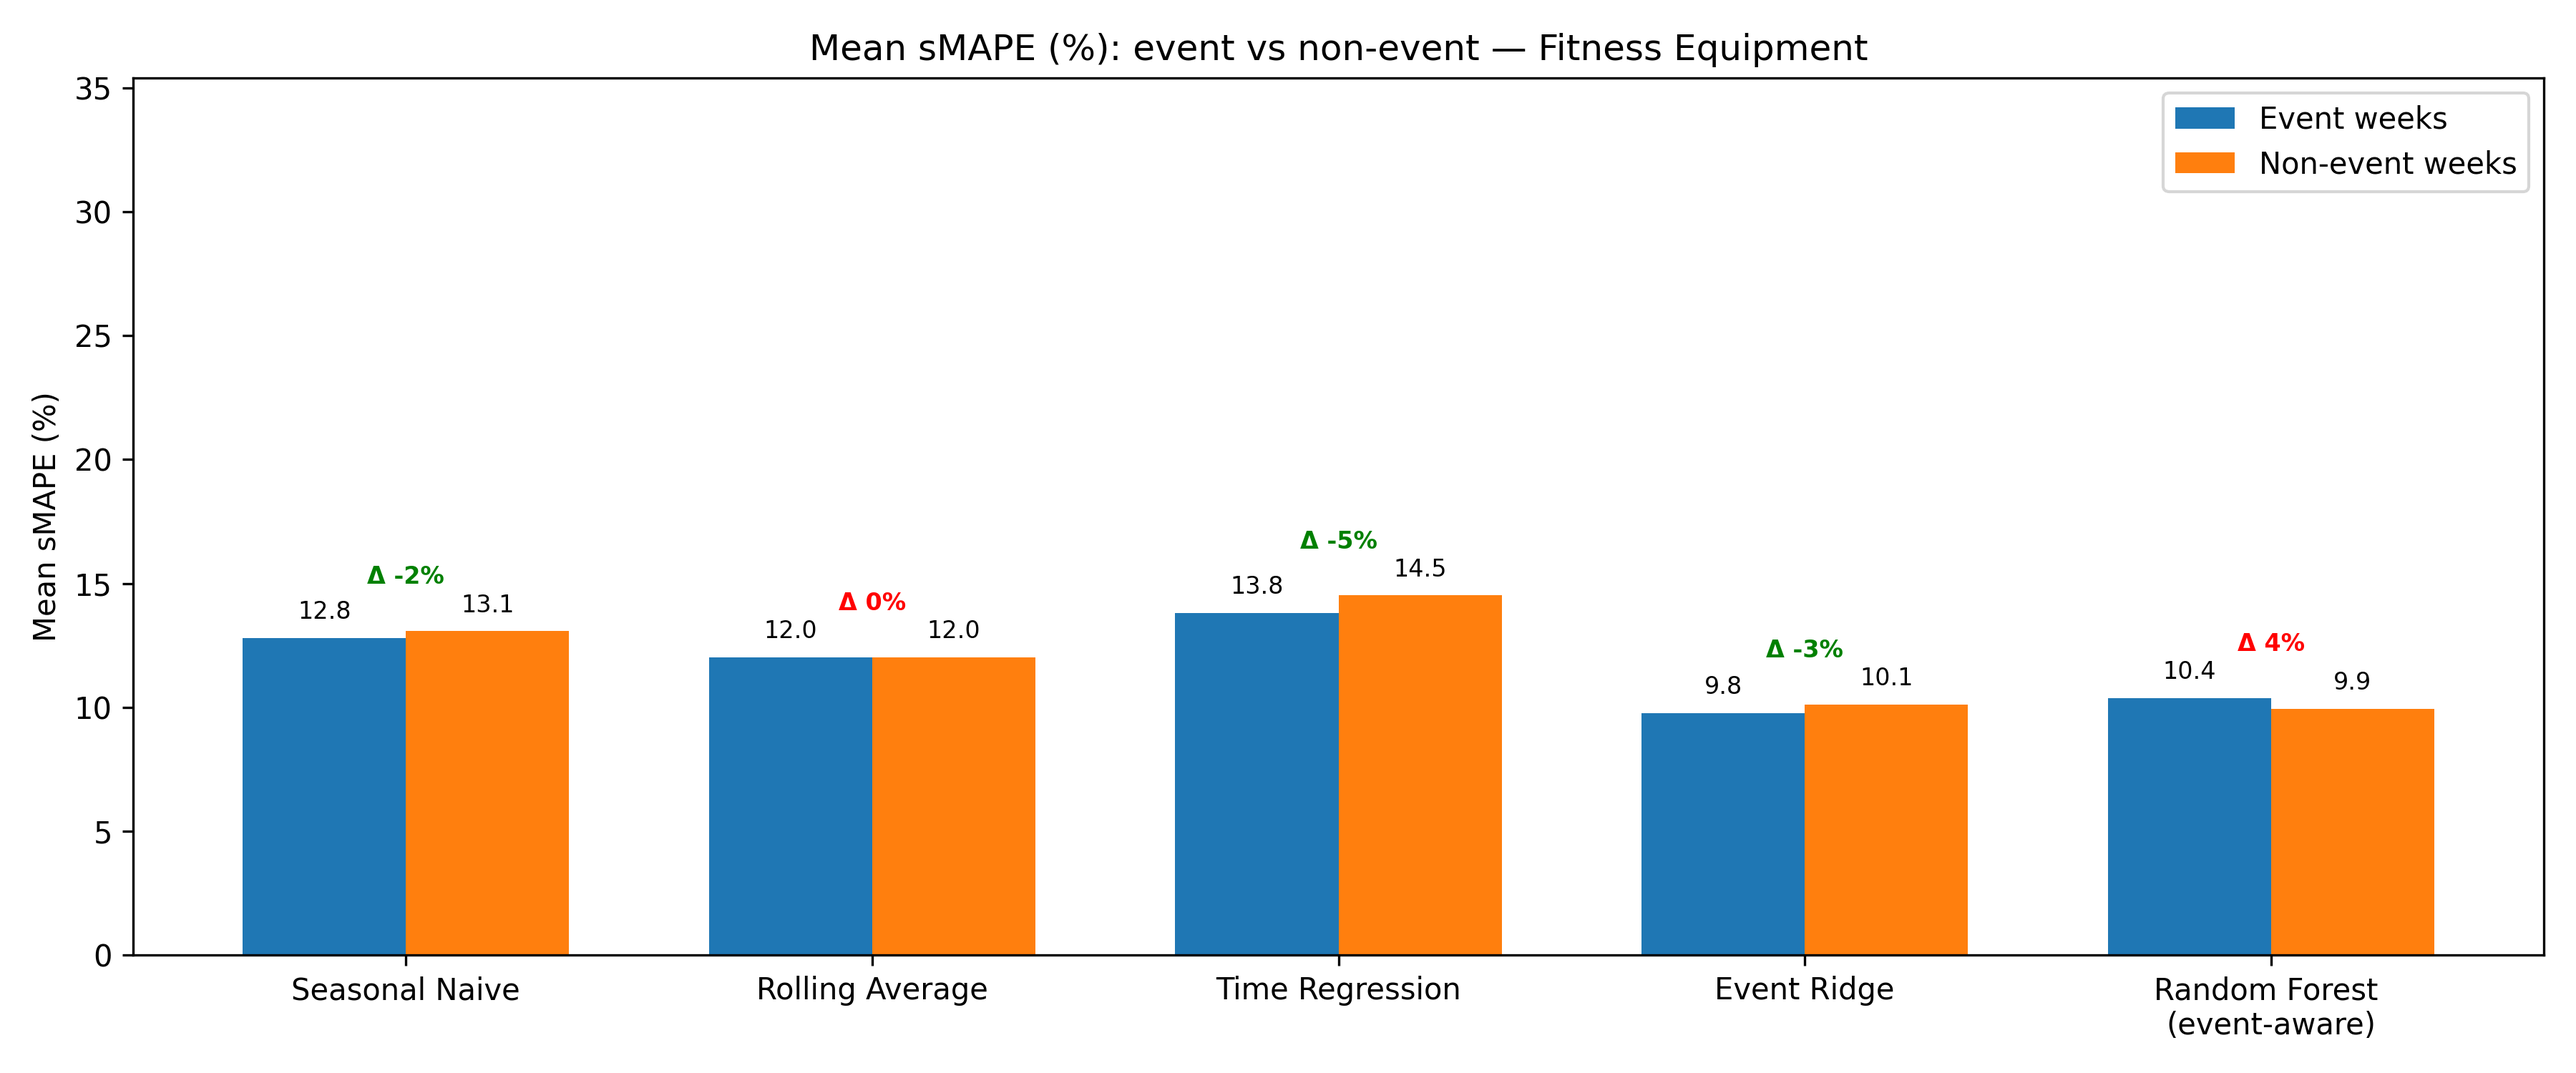
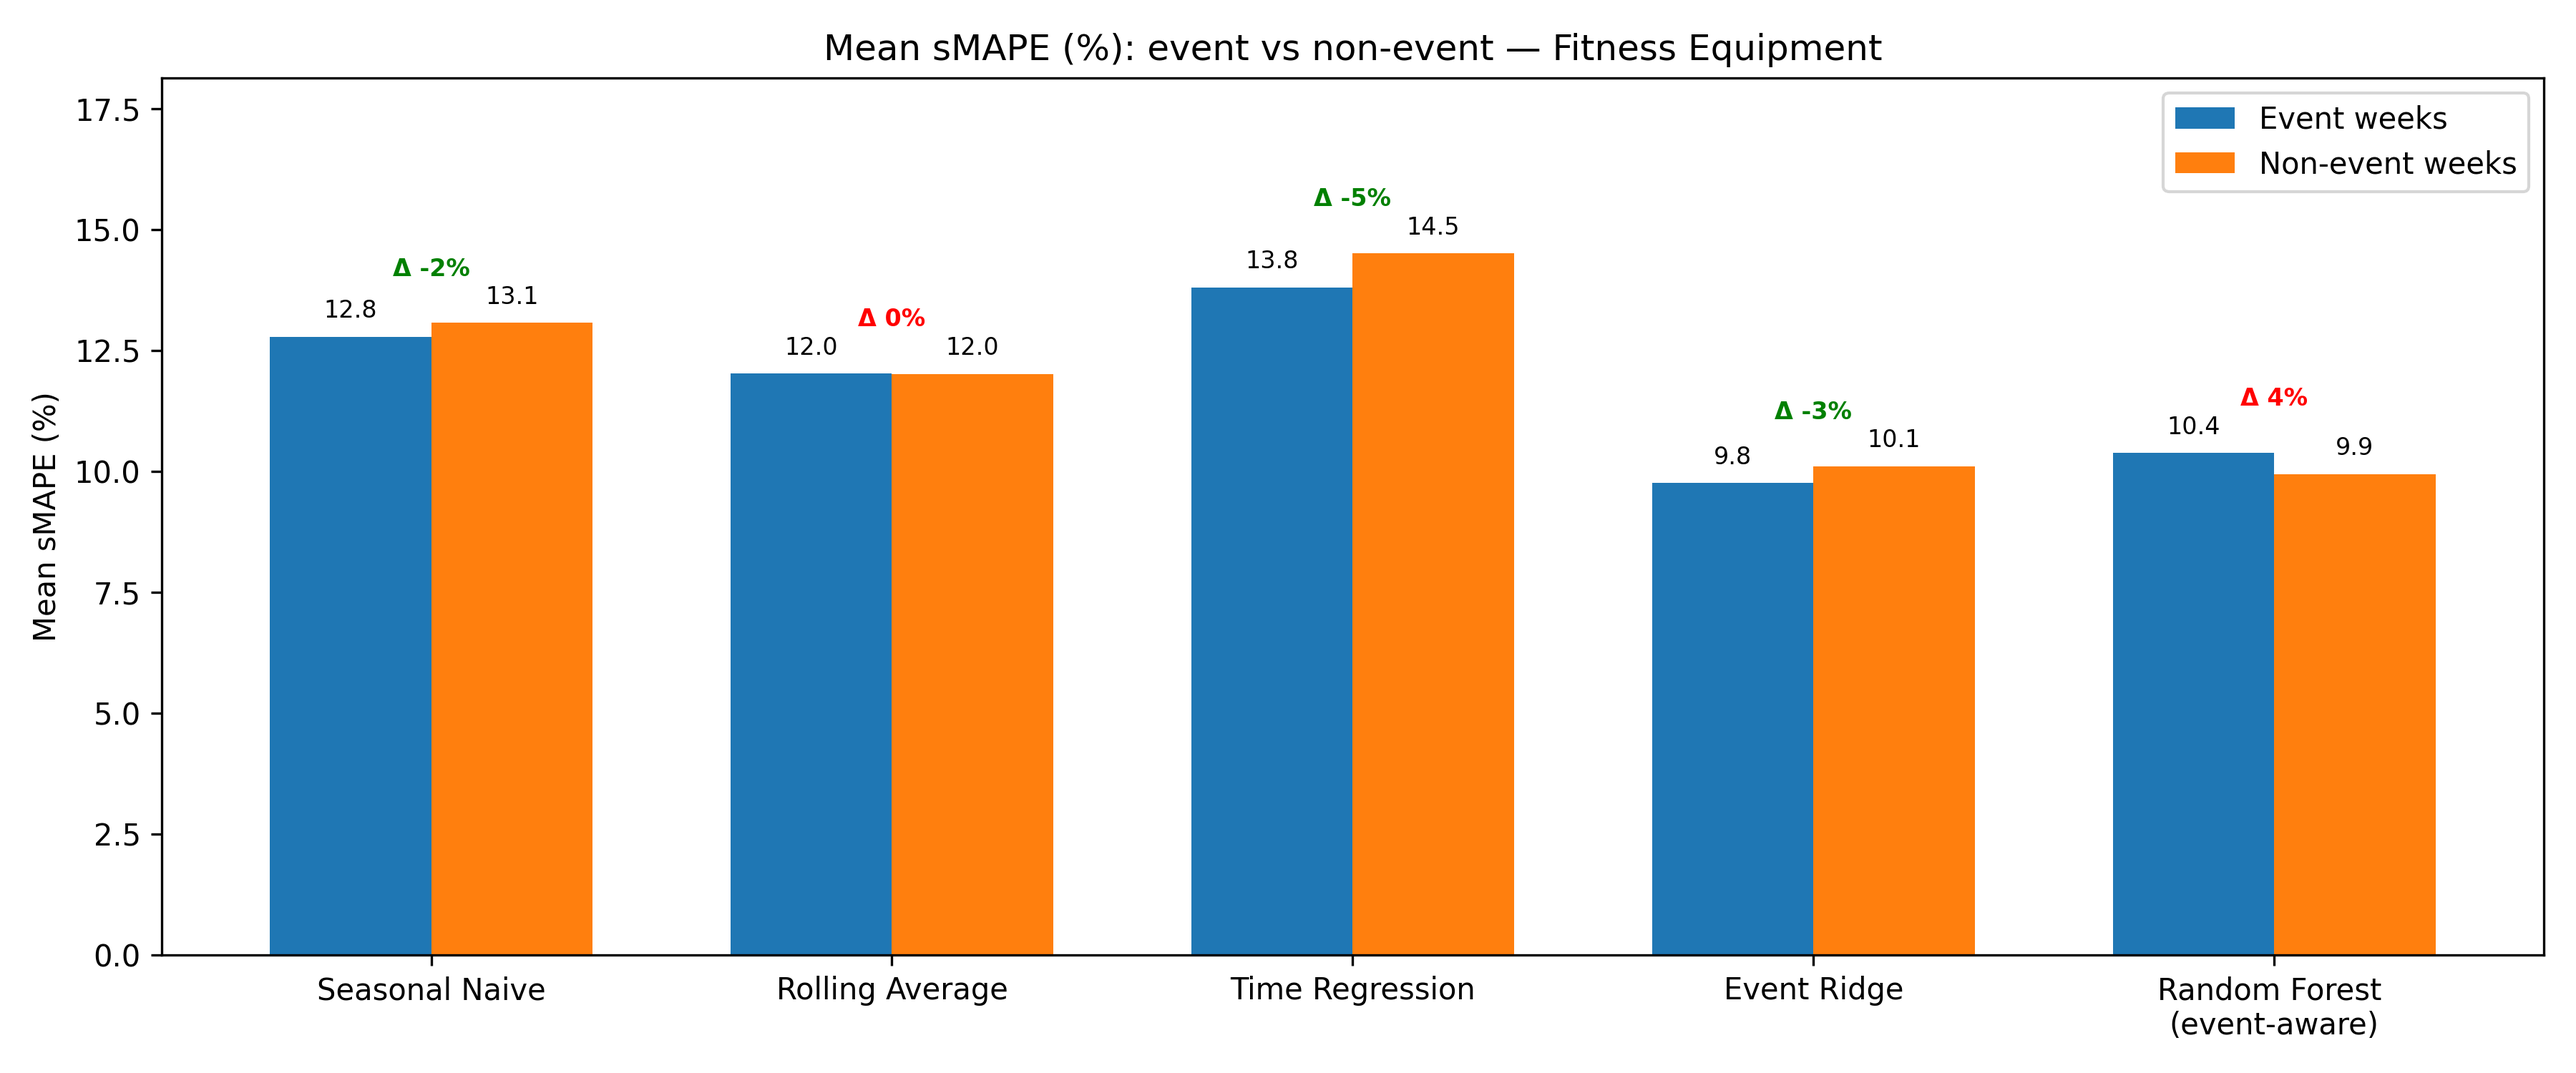
Updating dynamic y-axis error

diff --git a/src/pipeline/make_figures.py b/src/pipeline/make_figures.py
@@ -162,9 +162,12 @@ def fig_event_vs_nonevent_mae(ev: pd.DataFrame) -> None:
         plt.legend()
 
         # dynamic y-lim
-        all_vals = [v for v in np.concatenate([vals_event + vals_nonevent]) if not np.isnan(v)]
-        y_max = max(all_vals) if all_vals else 1.0
-        plt.ylim(0, y_max * 1.25)
+        all_vals = np.r_[vals_event, vals_nonevent]
+        all_vals = all_vals[~np.isnan(all_vals)]
+        
+        y_max = float(all_vals.max()) if all_vals.size else 1.0
+        top = y_max * 1.25
+        plt.ylim(0, top)
 
         #add value labels on top of bars
         for i, v in enumerate(vals_event):
